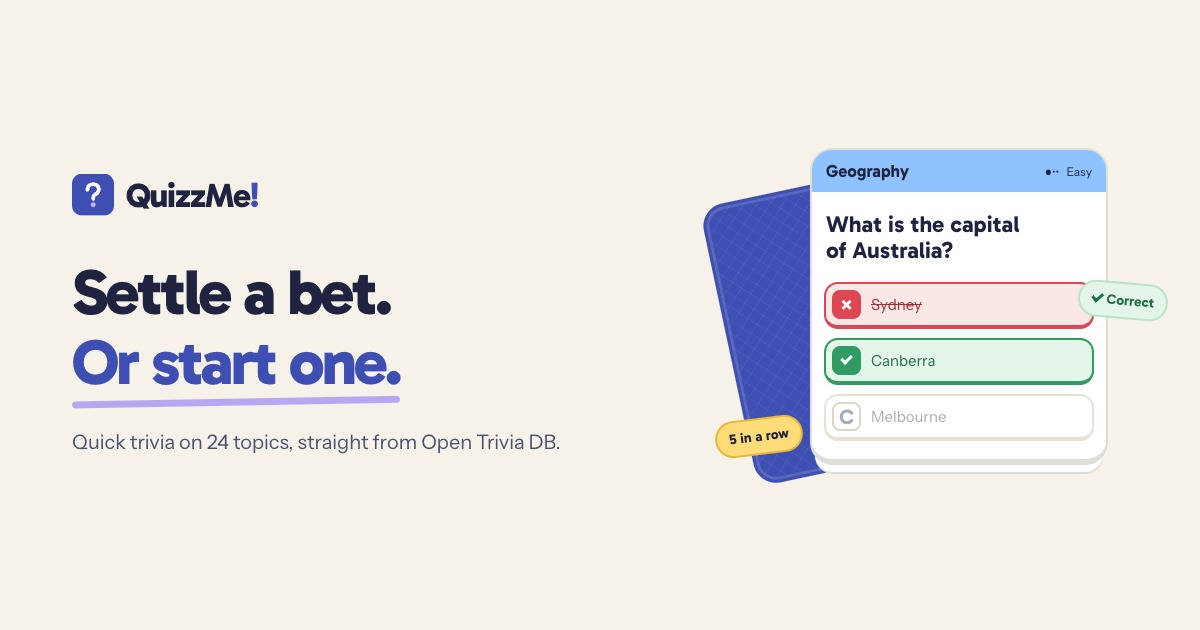
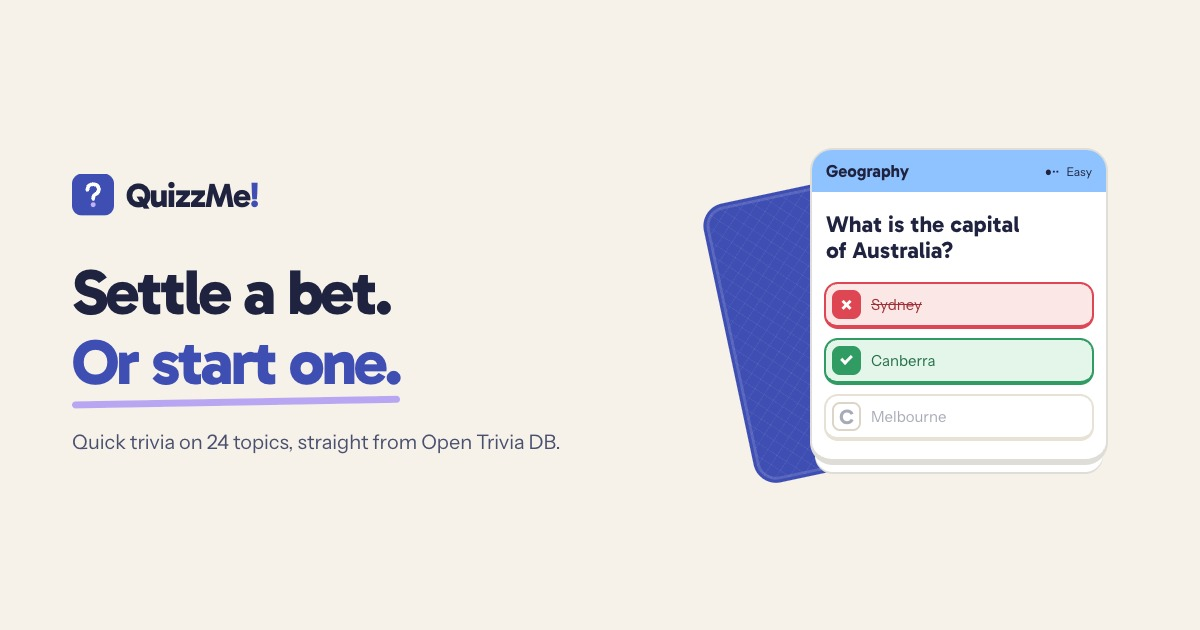
Remove decorative badges from the OG image

Changed region(s): [[0.8942, 0.4222, 0.9867, 0.5127], [0.5858, 0.6333, 0.6783, 0.7238]]

diff --git a/index.html b/index.html
@@ -13,7 +13,7 @@
     <meta property="og:title" content="QuizzMe! · Quick trivia rounds" />
     <meta property="og:description" content="Quick trivia rounds on 24 topics. Pick a topic, set the difficulty, and see how you do." />
     <meta property="og:url" content="https://quizzme.ashwin.co.in/" />
-    <meta property="og:image" content="https://quizzme.ashwin.co.in/og.jpg?v=3" />
+    <meta property="og:image" content="https://quizzme.ashwin.co.in/og.jpg?v=4" />
     <meta property="og:image:type" content="image/jpeg" />
     <meta property="og:image:width" content="1200" />
     <meta property="og:image:height" content="630" />
@@ -21,7 +21,7 @@
     <meta name="twitter:card" content="summary_large_image" />
     <meta name="twitter:title" content="QuizzMe! · Quick trivia rounds" />
     <meta name="twitter:description" content="Quick trivia rounds on 24 topics. Pick a topic, set the difficulty, and see how you do." />
-    <meta name="twitter:image" content="https://quizzme.ashwin.co.in/og.jpg?v=3" />
+    <meta name="twitter:image" content="https://quizzme.ashwin.co.in/og.jpg?v=4" />
     <link rel="icon" type="image/svg+xml" href="/icon.svg" />
     <link rel="apple-touch-icon" href="/apple-touch-icon.png" />
     <link rel="manifest" href="/site.webmanifest" />

diff --git a/docs/og.html b/docs/og.html
@@ -32,10 +32,7 @@
     .right { background: #e4f5e9; border-color: #319b64; color: #246d49; }
     .right b { background: #319b64; color: #fff; border-color: #319b64; }
     .inactive { color: #a8aab7; }
-    .sticker { position: absolute; font-family: Gabarito, sans-serif; font-size: 14px; font-weight: 700; border: 2px solid; border-radius: 20px; padding: 8px 12px; }
-    .correct { white-space: nowrap; left: 378px; top: 137px; background: #e4f5e9; color: #246d49; border-color: #bae3c8; transform: rotate(5deg); }
     .check { display: inline-block; width: 11px; height: 7px; border-left: 3px solid currentColor; border-bottom: 3px solid currentColor; transform: rotate(-45deg); margin-bottom: 3px; }
-    .streak { left: 15px; top: 273px; background: #ffdc79; color: #1f2340; border-color: #e5b839; transform: rotate(-7deg); }
   </style>
 </head>
 <body>
@@ -54,8 +51,6 @@
         <div class="answer right"><b><i class="check"></i></b>Canberra</div>
         <div class="answer inactive"><b>C</b>Melbourne</div>
       </div>
-      <div class="sticker correct"><i class="check"></i> Correct</div>
-      <div class="sticker streak">5 in a row</div>
     </div>
   </main>
 </body>
